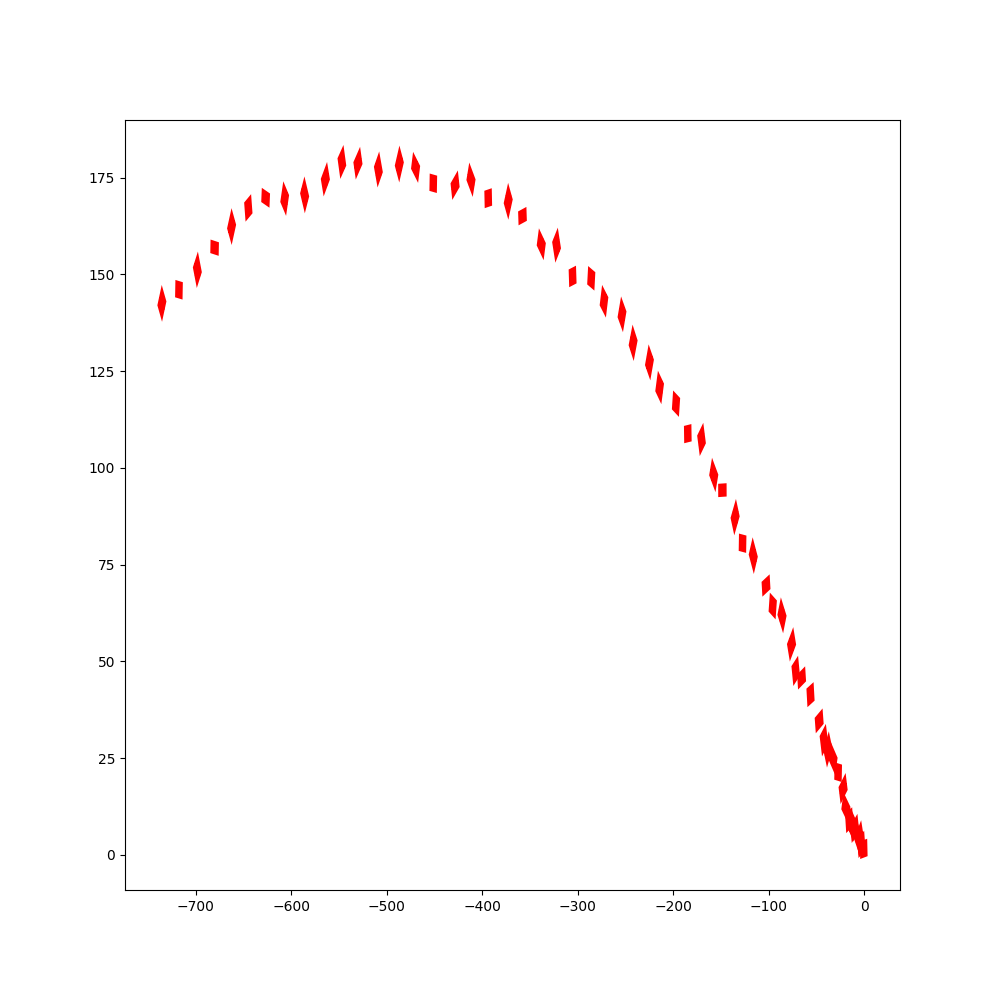
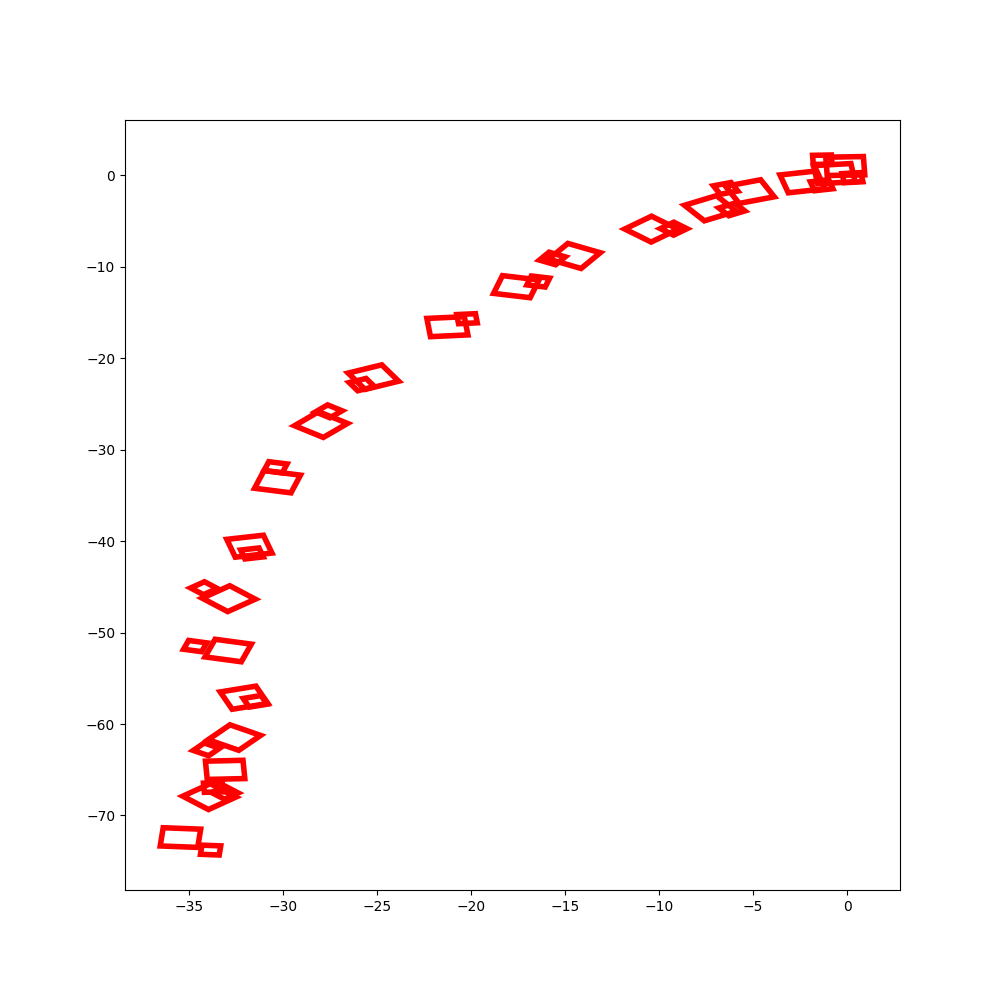
final??

diff --git a/physics.py b/physics.py
@@ -213,6 +213,20 @@ def plot_auv2_motion(
         plt.gca().add_patch(
             Rectangle(
                 (motion[1][i], motion[2][i]),
+                2 * l,
+                2 * L,
+                angle=motion[3][i],
+                edgecolor="red",
+                facecolor="none",
+                lw=4,
+            )
+        )
+        plt.gca().add_patch(
+            Rectangle(
+                (
+                    motion[1][i] + np.cos(motion[3][i]) * np.sqrt(l**2 + L**2),
+                    motion[2][i] + np.sin(motion[3][i]) * np.sqrt(l**2 + L**2),
+                ),
                 l,
                 L,
                 angle=motion[3][i],
@@ -226,14 +240,14 @@ def plot_auv2_motion(
 
 
 plot_auv2_motion(
-    np.array([0, 0, 300, 300]), 0.5, 3, 2, t_final=3, dt=0.05, inertia=1, mass=1
+    np.array([0, 0, 300, 300]), np.pi / 4, 1, 1, t_final=1, dt=0.05, inertia=1, mass=1
 )
 print(
     simulate_auv2_motion(
         np.array([0, 0, 300, 300]),
-        0.5,
-        3,
-        2,
+        np.pi / 4,
+        1,
+        1,
         t_final=3,
         dt=0.05,
         inertia=1,
